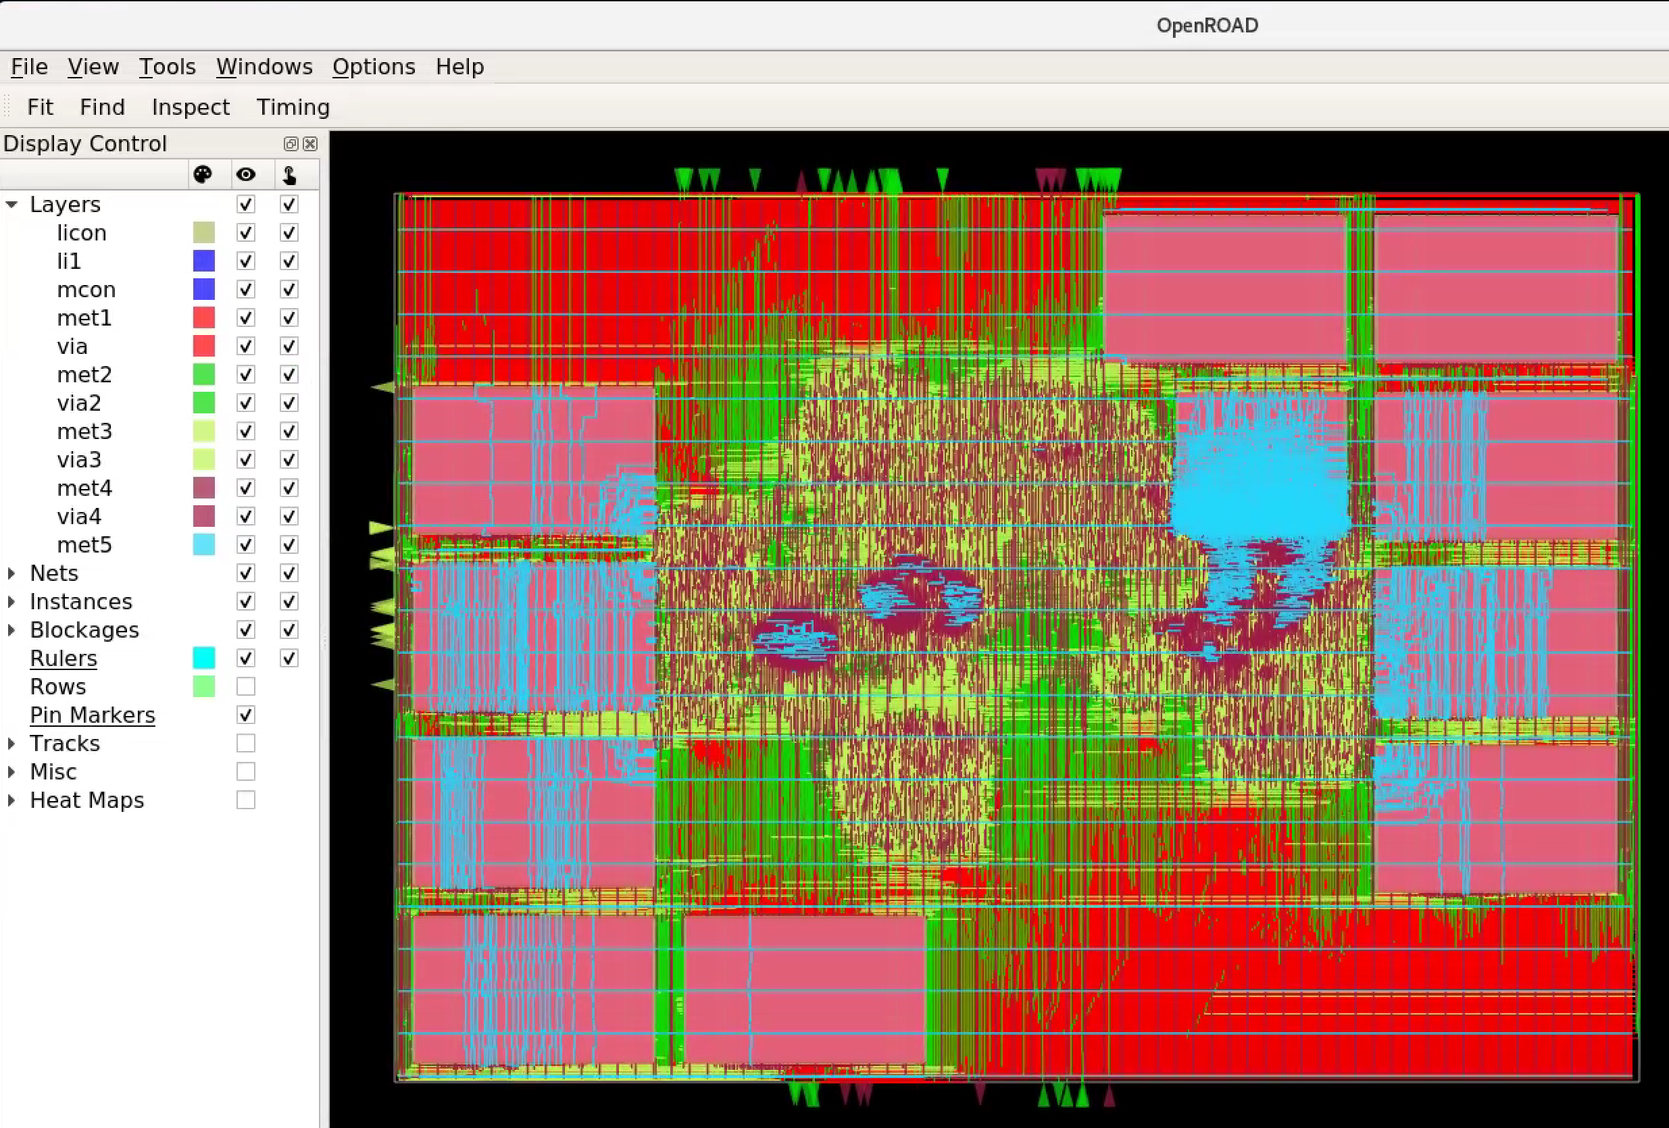
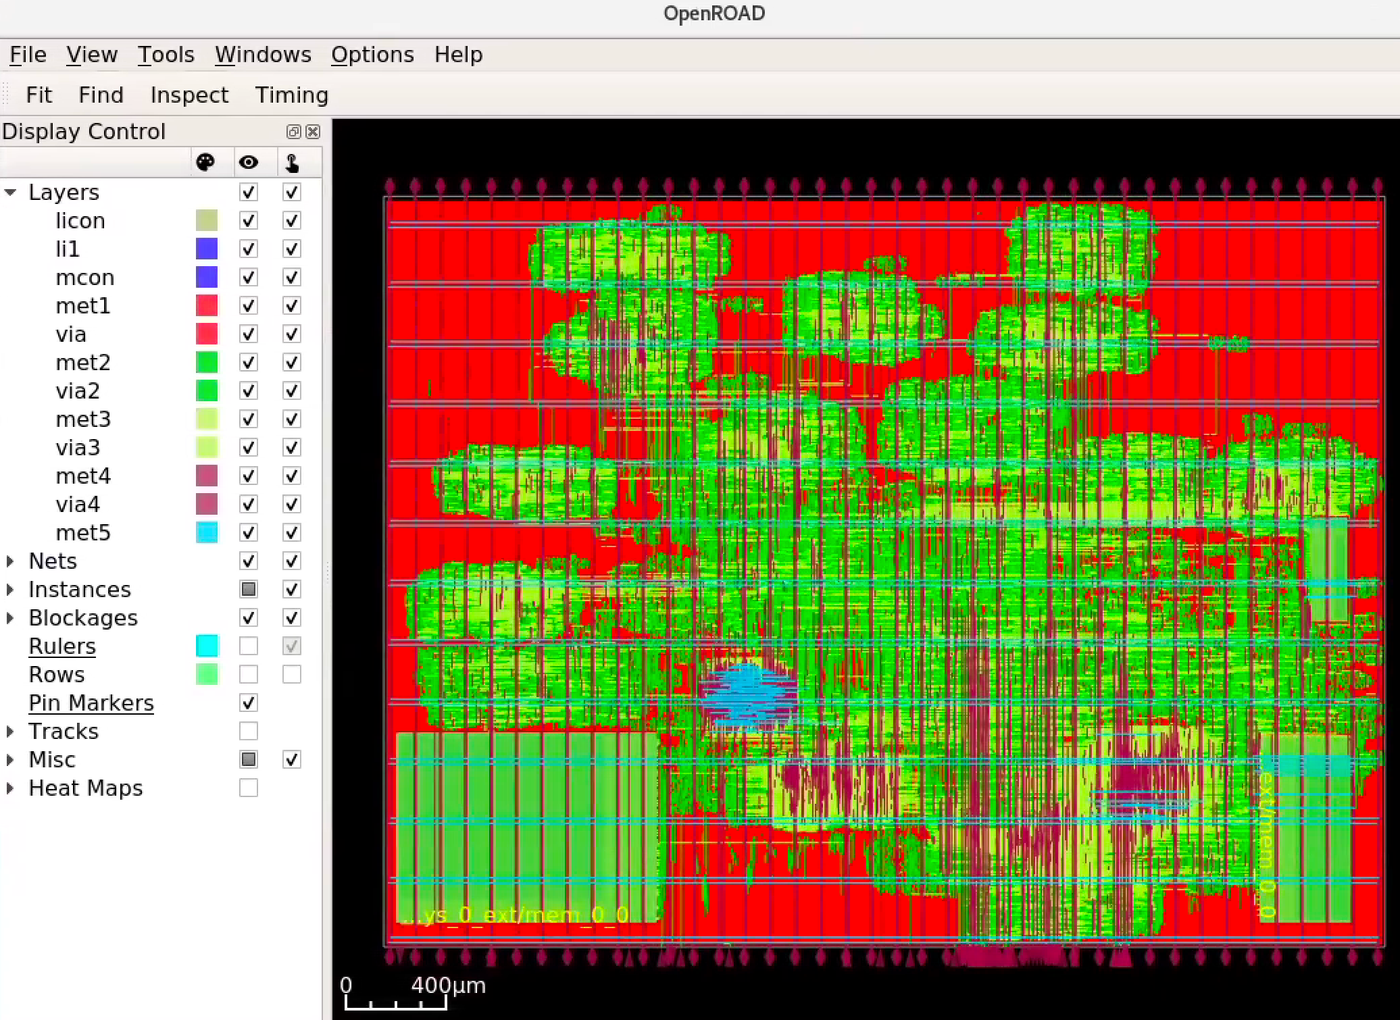
updated skywater tutorials

diff --git a/docs/VLSI/Sky130-OpenROAD-Tutorial.rst b/docs/VLSI/Sky130-OpenROAD-Tutorial.rst
@@ -20,7 +20,7 @@ This example gives a suggested file structure and build system. The ``vlsi/`` fo
 
 * ``env.yml``
 
-  * A template file for tool environment configuration. Fill in the install and license server paths for your environment. For SLICE and BWRC affiliates, example environment configs are found `here <https://github.com/ucb-bar/hammer/tree/master/e2e/env>`__.
+  * This file is not used in this tutorial, but is required for the commercial tool flow. A template file for tool environment configuration. Fill in the install and license server paths for your environment. For SLICE and BWRC affiliates, example environment configs are found `here <https://github.com/ucb-bar/hammer/tree/master/e2e/env>`__.
 
 * ``example-vlsi-sky130``
 
@@ -28,7 +28,7 @@ This example gives a suggested file structure and build system. The ``vlsi/`` fo
 
 * ``example-sky130.yml``, ``example-openroad.yml``, ``example-designs/sky130-openroad.yml``
 
-  * Hammer IR for this tutorial. For SLICE and BWRC affiliates, an example ASAP7 config is found `here <https://github.com/ucb-bar/hammer/tree/master/e2e/pdks>`__.
+  * Hammer IR for this tutorial. For SLICE and BWRC affiliates, an example Sky130 config is found `here <https://github.com/ucb-bar/hammer/tree/master/e2e/pdks>`__.
 
 * ``example-design.yml``, ``example-asap7.yml``, ``example-tech.yml``
 
@@ -48,12 +48,36 @@ Prerequisites
 * Python 3.9+
 * OpenROAD flow tools:
 
-  * Yosys (synthesis), install `from source <https://yosyshq.net/yosys/download.html>`__ or `using conda <https://anaconda.org/TimVideos/yosys>`__
-  * OpenROAD (place-and-route), install `from source <https://openroad.readthedocs.io/en/latest/main/README.html#install-dependencies>`__
-  * Magic (DRC), install `from source <http://www.opencircuitdesign.com/magic/install.html>`__
-  * NetGen (LVS), install `from source <http://www.opencircuitdesign.com/netgen/install.html>`__ or `using conda <https://anaconda.org/conda-forge/netgen>`__
+  * Yosys (synthesis), install `using conda <https://anaconda.org/litex-hub/yosys>`__ or `from source <https://yosyshq.net/yosys/download.html>`__
+  * OpenROAD (place-and-route), install `using conda <https://anaconda.org/litex-hub/openroad>`__ (note that GUI is disabled in conda package) or `from source <https://openroad.readthedocs.io/en/latest/main/README.html#install-dependencies>`__
+  * KLayout (DEF to GDSII conversion), install `using conda <https://anaconda.org/litex-hub/klayout>`__ or `from source <https://www.klayout.de/build.html>`__
+  * Magic (DRC), , install `using conda <https://anaconda.org/litex-hub/magic>`__ or `from source <http://www.opencircuitdesign.com/magic/install.html>`__
+  * NetGen (LVS), , install `using conda <https://anaconda.org/litex-hub/netgen>`__ or `from source <http://www.opencircuitdesign.com/netgen/install.html>`__
 
-* Sky130 PDK, install using `these directions  <https://github.com/ucb-bar/hammer/blob/master/hammer/technology/sky130>`__
+* Sky130A PDK, install `using conda <https://anaconda.org/litex-hub/open_pdks.sky130a>`__ or `these directions  <https://github.com/ucb-bar/hammer/blob/master/hammer/technology/sky130>`__
+* `Sram22 Sky130 SRAM macros  <https://github.com/rahulk29/sram22_sky130_macros>`__ 
+
+  * These SRAM macros were generated using the `Sram22 SRAM generator  <https://github.com/rahulk29/sram22>`__ (still very heavily under development)
+
+Prerequisite Setup with Conda
+^^^^^^^^^^^^^^^^^^^^^^^^^^^^^
+As of recently, most of the prerequisites of this tutorial may now be installed as conda packages.
+The setup of these tools may eventually be scripted, but for now here are the directions to set them up:
+
+.. code-block:: shell
+
+    # create conda environment named "osflow"
+    conda create -n osflow
+    # download all files for Sky130A PDK
+    conda install -n osflow -c litex-hub open_pdks.sky130a
+    # install all VLSI tools
+    conda install -n osflow -c litex-hub yosys
+    conda install -n osflow -c litex-hub openroad
+    conda install -n osflow -c litex-hub klayout
+    conda install -n osflow -c litex-hub magic
+    conda install -n osflow -c litex-hub netgen
+    # clone the SRAM22 Sky130 SRAM macros to a convenient location
+    git clone https://github.com/rahulk29/sram22_sky130_macros
 
 Initial Setup
 -------------
@@ -66,31 +90,13 @@ In the Chipyard root, ensure that you have the Chipyard conda environment activa
 to pull and install the plugin submodules. Note that for technologies other than ``sky130`` or ``asap7``, the tech submodule is cloned in the ``vlsi`` folder, 
 and for the commercial tool flow (set up by omitting the ``openroad`` argument), the tool plugin submodules are cloned into the ``vlsi`` folder.
 
-Building the Design
---------------------
-To elaborate the ``TinyRocketConfig`` and set up all prerequisites for the build system to push the design and SRAM macros through the flow:
+Now navigate to the ``vlsi`` directory. The remainder of the tutorial will assume you are in this directory. 
+We will summarize a few files in this directory that will be important for the rest of the tutorial.
 
 .. code-block:: shell
 
-    make buildfile tutorial=sky130-openroad
+    cd ~chipyard/vlsi
 
-The command ``make buildfile`` generates a set of Make targets in ``build/hammer.d``.
-It needs to be re-run if environment variables are changed.
-It is recommended that you edit these variables directly in the Makefile rather than exporting them to your shell environment.
-
-For the purpose of brevity, in this tutorial we will set the Make variable ``tutorial=sky130-openroad``,
-which will cause additional variables to be set in ``tutorial.mk``, a few of which are summarized as follows:
-
-* ``CONFIG=TinyRocketConfig`` selects the target generator config in the same manner as the rest of the Chipyard framework. This elaborates a stripped-down Rocket Chip in the interest of minimizing tool runtime.
-* ``tech_name=sky130`` sets a few more necessary paths in the ``Makefile``, such as the appropriate Hammer plugin
-* ``TOOLS_CONF`` and ``TECH_CONF`` select the approproate YAML configuration files, ``example-openroad.yml`` and ``example-sky130.yml``, which are described below
-* ``DESIGN_CONF`` and ``EXTRA_CONFS`` allow for additonal design-specific overrides of the Hammer IR in ``example-sky130.yml``
-* ``VLSI_OBJ_DIR=build-sky130-openroad`` gives the build directory a unique name to allow running multiple flows in the same repo. Note that for the rest of the tutorial we will still refer to this directory in file paths as ``build``, again for brevity.
-* ``VLSI_TOP`` is by default ``ChipTop``, which is the name of the top-level Verilog module generated in the Chipyard SoC configs. By instead setting ``VLSI_TOP=Rocket``, we can use the Rocket core as the top-level module for the VLSI flow, which consists only of a single RISC-V core (and no caches, peripherals, buses, etc). This is useful to run through this tutorial quickly, and does not rely on any SRAMs.
-* ``ENABLE_CUSTOM_FIRRTL_PASS = 1`` is required for synthesis through Yosys. This reverts to the Scala FIRRTL Compiler so that unsupported multidimensional arrays are not generated in the Verilog.
-
-Running the VLSI Flow
----------------------
 
 example-vlsi-sky130
 ^^^^^^^^^^^^^^^^^^^
@@ -101,15 +107,60 @@ example-sky130.yml
 ^^^^^^^^^^^^^^^^^^
 This contains the Hammer configuration for this example project. Example clock constraints, power straps definitions, placement constraints, and pin constraints are given. Additional configuration for the extra libraries and tools are at the bottom.
 
-First, set ``technology.sky130.<sky130A, openram_lib>`` to the absolute path of the respective directories containing the Sky130 PDK and SRAM files. See the
-`Sky130 Hammer plugin README <https://github.com/ucb-bar/hammer/blob/master/hammer/technology/sky130>`__
-for details about the PDK setup.
+Add the following YAML keys to the top of this file to specify the location of the Sky130A PDK and SRAM macros.
 
+.. code-block:: yaml
+
+    # all ~ should be replaced with absolute paths to these directories
+    # technology paths
+    technology.sky130.sky130A: ~conda/envs/osflow/share/pdk/sky130A
+    technology.sky130.sram22_sky130_macros: ~sram22_sky130_macros
 
 example-openroad.yml
 ^^^^^^^^^^^^^^^^^^^^
 This contains the Hammer configuration for the OpenROAD tool flow.
 It selects tools for synthesis (Yosys), place and route (OpenROAD), DRC (Magic), and LVS (NetGen).
+
+Add the following YAML keys to the top of this file to specify the locations of the tool binaries.
+Note that this is not required if the tools are already on your PATH.
+
+.. code-block:: yaml
+
+    # all ~ should be replaced with absolute paths to these directories
+    # tool binary paths
+    synthesis.yosys.yosys_bin: ~conda/envs/osflow/bin/yosys
+    par.openroad.openroad_bin: ~conda/envs/osflow/bin/openroad
+    par.openroad.klayout_bin: ~conda/envs/osflow/bin/klayout
+    drc.magic.magic_bin: ~conda/envs/osflow/bin/magic
+    lvs.netgen.netgen_bin: ~conda/envs/osflow/bin/netgen
+
+
+Building the Design
+--------------------
+
+To elaborate the ``TinyRocketConfig`` and set up all prerequisites for the build system to push the design and SRAM macros through the flow:
+
+.. code-block:: shell
+
+    make buildfile tutorial=sky130-openroad
+
+The command ``make buildfile`` generates a set of Make targets in ``build/hammer.d``.
+It needs to be re-run if environment variables are changed.
+It is recommended that you edit these variables directly in the Makefile rather than exporting them to your shell environment.
+
+For the sake of brevity, in this tutorial we will set the Make variable ``tutorial=sky130-openroad``,
+which will cause additional variables to be set in ``tutorial.mk``, a few of which are summarized as follows:
+
+* ``CONFIG=TinyRocketConfig`` selects the target generator config in the same manner as the rest of the Chipyard framework. This elaborates a stripped-down Rocket Chip in the interest of minimizing tool runtime.
+* ``tech_name=sky130`` sets a few more necessary paths in the ``Makefile``, such as the appropriate Hammer plugin
+* ``TOOLS_CONF`` and ``TECH_CONF`` select the approproate YAML configuration files, ``example-openroad.yml`` and ``example-sky130.yml``, which are described above
+* ``DESIGN_CONF`` and ``EXTRA_CONFS`` allow for additonal design-specific overrides of the Hammer IR in ``example-sky130.yml``
+* ``VLSI_OBJ_DIR=build-sky130-openroad`` gives the build directory a unique name to allow running multiple flows in the same repo. Note that for the rest of the tutorial we will still refer to this directory in file paths as ``build``, again for brevity.
+* ``VLSI_TOP`` is by default ``ChipTop``, which is the name of the top-level Verilog module generated in the Chipyard SoC configs. By instead setting ``VLSI_TOP=Rocket``, we can use the Rocket core as the top-level module for the VLSI flow, which consists only of a single RISC-V core (and no caches, peripherals, buses, etc). This is useful to run through this tutorial quickly, and does not rely on any SRAMs.
+* ``ENABLE_YOSYS_FLOW = 1`` is required for synthesis through Yosys. This reverts to the Scala FIRRTL Compiler so that unsupported multidimensional arrays are not generated in the Verilog.
+
+Running the VLSI Flow
+---------------------
 
 Synthesis
 ^^^^^^^^^
@@ -129,37 +180,73 @@ Place-and-Route
     make par tutorial=sky130-openroad
 
 After completion, the final database can be opened in an interactive OpenROAD session.
+Hammer generates a convenient script to launch these sessions
 
 .. code-block:: shell
 
     cd ./build/par-rundir
     ./generated-scripts/open_chip
 
+Note that the conda OpenROAD package was compiled with the GUI disabled, so in order to view the layout,
+you will need to install OpenROAD from source.
 
 Below is the post-PnR layout for the TinyRocketConfig in Sky130 generated by OpenROAD.
 
 .. image:: ../_static/images/vlsi-openroad-par-tinyrocketconfig.png
 
-Intermediate databases are written in ``build/par-rundir`` between each step of the ``par`` action. These databases can be restored in an interactive OpenROAD session as desired for debugging purposes.
+Intermediate databases are written in ``build/par-rundir`` between each step of the ``par`` action,
+These databases can be restored using the same ``open_chip`` script for debugging purposes.
 
 .. code-block:: shell
 
-    openroad  # launch OpenROAD tool
-    openroad> read_db pre_global_route
+    cd build/par-rundir
+    ./generated_scripts/open_chip -h
+    "
+        Usage: ./generated-scripts/open_chip [-t] [openroad_db_name]
+
+        Options
+          openroad_db_name    : Name of database to load (default=latest)
+          -t, --timing        : Load timing info (default=disabled because of slow load time)
+          -h, --help          : Display this message
+    "
+    # load pre-global route database without timing information
+    ./generated_scripts/open_chip pre_global_route
+
+    # load post-clock tree database with timing inforamtion
+    ./generated_scripts/open_chip -t post_clock_tree
 
 .. Timing reports are found in ``build/par-rundir/timingReports``. They are gzipped text files.
 
+See the `OpenROAD tool plugin <https://github.com/ucb-bar/hammer/blob/master/hammer/par/openroad>`__ for the full list of OpenROAD tool steps and their implementations.
+
 DRC & LVS
 ^^^^^^^^^
-To run DRC & LVS:
+
+As a note, this tutorial has been run extensively through commercial signoff tools,
+thus the open-source signoff flow is not stable or guaranteed to produce useful results.
+We welcome any contributions to improving both our `Magic tool plugin <https://github.com/ucb-bar/hammer/blob/master/hammer/drc/magic>`__
+and `Netgen tool plugin <https://github.com/ucb-bar/hammer/blob/master/hammer/lvs/netgen>`__.
+
+To run DRC & LVS in Magic & Netgen, respectively:
 
 .. code-block:: shell
 
     make drc tutorial=sky130-openroad
+    ./build/drc-rundir/generated-scripts/view_drc
     make lvs tutorial=sky130-openroad
+    ./build/lvs-rundir/generated-scripts/view_lvs
 
-Some DRC errors are expected from this PDK, especially with regards to the SRAMs, as explained in the
-`Sky130 Hammer plugin README  <https://github.com/ucb-bar/hammer/blob/master/hammer/technology/sky130>`__.
+Note that in ``sky130-openroad.yml`` we have set the following YAML keys:
+
+.. code-block:: yaml
+
+    drc.magic.generate_only: true
+    lvs.netgen.generate_only: true
+
+These keys cause the Hammer plugin to only generate all necessary scripts, without executing them with the respective tool.
+This is because Magic and Netgen, as of the writing of this tutorial, do not have a database format that may be loaded interactively,
+so to view the DRC/LVS results for debugging you must launch the tool interactively, then run DRC/LVS checks,
+which is done by the ``generated-scripts/view_[drc|lvs]`` scripts.
 
 
 VLSI Flow Control
@@ -174,9 +261,9 @@ Firt, refer to the :ref:`VLSI/Hammer:VLSI Flow Control` documentation. The below
       make redo-par HAMMER_EXTRA_ARGS="--start_before_step write_design"
 
       # example of re-running only floorplanning to test out a new floorplan configuration
-      make redo-par HAMMER_EXTRA_ARGS="--only_step floorplan_design -p example-sky130.yml"
-
-See the `OpenROAD tool plugin <https://github.com/ucb-bar/hammer/blob/master/hammer/par/openroad>`__ for the full list of OpenROAD tool steps and their implementations.
+      #   the "-p file.yml" causes file.yml to override any previous yaml/json configurations
+      make redo-par \
+        HAMMER_EXTRA_ARGS="--only_step floorplan_design -p example-designs/sky130-openroad.yml"
 
 Documentation
 -------------

diff --git a/docs/VLSI/Sky130-Commercial-Tutorial.rst b/docs/VLSI/Sky130-Commercial-Tutorial.rst
@@ -47,7 +47,25 @@ Prerequisites
 
 * Python 3.9+
 * Genus, Innovus, Voltus, VCS, and Calibre licenses
-* Sky130 PDK, install using `these directions  <https://github.com/ucb-bar/hammer/blob/master/hammer/technology/sky130>`__
+* Sky130A PDK, install `using conda <https://anaconda.org/litex-hub/open_pdks.sky130a>`__ or `these directions  <https://github.com/ucb-bar/hammer/blob/master/hammer/technology/sky130>`__
+* `Sram22 Sky130 SRAM macros  <https://github.com/rahulk29/sram22_sky130_macros>`__ 
+
+  * These SRAM macros were generated using the `Sram22 SRAM generator  <https://github.com/rahulk29/sram22>`__ (still very heavily under development)
+
+Prerequisite Setup with Conda
+^^^^^^^^^^^^^^^^^^^^^^^^^^^^^
+As of recently, most of the prerequisites of this tutorial may now be installed as conda packages.
+The setup of these tools may eventually be scripted, but for now here are the directions to set them up:
+
+.. code-block:: shell
+
+    # create conda environment named "osflow"
+    conda create -n osflow
+    # download all files for Sky130A PDK
+    conda install -n osflow -c litex-hub open_pdks.sky130a
+    # clone the SRAM22 Sky130 SRAM macros to a convenient location
+    git clone https://github.com/rahulk29/sram22_sky130_macros
+
 
 Initial Setup
 -------------
@@ -58,6 +76,38 @@ In the Chipyard root, ensure that you have the Chipyard conda environment activa
     ./scripts/init-vlsi.sh sky130
 
 to pull and install the plugin submodules. Note that for technologies other than ``sky130`` or ``asap7``, the tech submodule must be added in the ``vlsi`` folder first.
+
+Now navigate to the ``vlsi`` directory. The remainder of the tutorial will assume you are in this directory. 
+We will summarize a few files in this directory that will be important for the rest of the tutorial.
+
+.. code-block:: shell
+
+    cd ~chipyard/vlsi
+
+example-vlsi-sky130
+^^^^^^^^^^^^^^^^^^^
+This is the entry script with placeholders for hooks. In the ``ExampleDriver`` class, a list of hooks is passed in the ``get_extra_par_hooks``. Hooks are additional snippets of python and TCL (via ``x.append()``) to extend the Hammer APIs. Hooks can be inserted using the ``make_pre/post/replacement_hook`` methods as shown in this example. Refer to the Hammer documentation on hooks for a detailed description of how these are injected into the VLSI flow.
+
+
+example-sky130.yml
+^^^^^^^^^^^^^^^^^^
+This contains the Hammer configuration for this example project. Example clock constraints, power straps definitions, placement constraints, and pin constraints are given. Additional configuration for the extra libraries and tools are at the bottom.
+
+Add the following YAML keys to the top of this file to specify the location of the Sky130A PDK and SRAM macros.
+
+.. code-block:: yaml
+
+    # all ~ should be replaced with absolute paths to these directories
+    # technology paths
+    technology.sky130.sky130A: ~conda/envs/osflow/share/pdk/sky130A
+    technology.sky130.sram22_sky130_macros: ~sram22_sky130_macros
+
+
+example-tools.yml
+^^^^^^^^^^^^^^^^^
+This contains the Hammer configuration for a commercial tool flow.
+It selects tools for synthesis (Cadence Genus), place and route (Cadence Innovus), DRC and LVS (Mentor Calibre).
+
 
 Building the Design
 --------------------
@@ -76,31 +126,13 @@ which will cause additional variables to be set in ``tutorial.mk``, a few of whi
 
 * ``CONFIG=TinyRocketConfig`` selects the target generator config in the same manner as the rest of the Chipyard framework. This elaborates a stripped-down Rocket Chip in the interest of minimizing tool runtime.
 * ``tech_name=sky130`` sets a few more necessary paths in the ``Makefile``, such as the appropriate Hammer plugin
-* ``TOOLS_CONF`` and ``TECH_CONF`` select the approproate YAML configuration files, ``example-tools.yml`` and ``example-sky130.yml``, which are described below
+* ``TOOLS_CONF`` and ``TECH_CONF`` select the approproate YAML configuration files, ``example-tools.yml`` and ``example-sky130.yml``, which are described above
 * ``DESIGN_CONF`` and ``EXTRA_CONFS`` allow for additonal design-specific overrides of the Hammer IR in ``example-sky130.yml``
 * ``VLSI_OBJ_DIR=build-sky130-commercial`` gives the build directory a unique name to allow running multiple flows in the same repo. Note that for the rest of the tutorial we will still refer to this directory in file paths as ``build``, again for brevity.
 * ``VLSI_TOP`` is by default ``ChipTop``, which is the name of the top-level Verilog module generated in the Chipyard SoC configs. By instead setting ``VLSI_TOP=Rocket``, we can use the Rocket core as the top-level module for the VLSI flow, which consists only of a single RISC-V core (and no caches, peripherals, buses, etc). This is useful to run through this tutorial quickly, and does not rely on any SRAMs.
 
 Running the VLSI Flow
 ---------------------
-
-example-vlsi-sky130
-^^^^^^^^^^^^^^^^^^^
-This is the entry script with placeholders for hooks. In the ``ExampleDriver`` class, a list of hooks is passed in the ``get_extra_par_hooks``. Hooks are additional snippets of python and TCL (via ``x.append()``) to extend the Hammer APIs. Hooks can be inserted using the ``make_pre/post/replacement_hook`` methods as shown in this example. Refer to the Hammer documentation on hooks for a detailed description of how these are injected into the VLSI flow.
-
-
-example-sky130.yml
-^^^^^^^^^^^^^^^^^^
-This contains the Hammer configuration for this example project. Example clock constraints, power straps definitions, placement constraints, and pin constraints are given. Additional configuration for the extra libraries and tools are at the bottom.
-
-First, set ``technology.sky130.sky130A/sky130_nda/openram_lib`` to the absolute path of the respective directories containing the Sky130 PDK and SRAM files. See the
-`Sky130 Hammer plugin README <https://github.com/ucb-bar/hammer/blob/master/hammer/technology/sky130>`__
-for details about the PDK setup.
-
-example-tools.yml
-^^^^^^^^^^^^^^^^^
-This contains the Hammer configuration for a commercial tool flow.
-It selects tools for synthesis (Cadence Genus), place and route (Cadence Innovus), DRC and LVS (Mentor Calibre).
 
 Synthesis
 ^^^^^^^^^
@@ -129,9 +161,9 @@ To run DRC & LVS, and view the results in Calibre:
 .. code-block:: shell
 
     make drc tutorial=sky130-commercial
-    ./build/chipyard.TestHarness.TinyRocketConfig-ChipTop/drc-rundir/generated-scripts/view_drc
+    ./build/drc-rundir/generated-scripts/view_drc
     make lvs tutorial=sky130-commercial
-    ./build/chipyard.TestHarness.TinyRocketConfig-ChipTop/lvs-rundir/generated-scripts/view_lvs
+    ./build/lvs-rundir/generated-scripts/view_lvs
 
 Some DRC errors are expected from this PDK, especially with regards to the SRAMs, as explained in the
 `Sky130 Hammer plugin README  <https://github.com/ucb-bar/hammer/blob/master/hammer/technology/sky130>`__.
@@ -160,3 +192,20 @@ Post-P&R power and rail (IR drop) analysis is supported with Voltus:
 If you append the ``BINARY`` variable to the command, it will use the activity file generated from a ``sim-<syn/par>-debug`` run and report dynamic power & IR drop from the toggles encoded in the waveform.
 
 To bypass gate-level simulation, you will need to run the power tool manually (see the generated commands in the generated ``hammer.d`` buildfile). Static and active (vectorless) power & IR drop will be reported.
+
+
+VLSI Flow Control
+^^^^^^^^^^^^^^^^^
+Firt, refer to the :ref:`VLSI/Hammer:VLSI Flow Control` documentation. The below examples use the ``redo-par`` Make target to re-run only place-and-route. ``redo-`` may be prepended to any of the VLSI flow actions to re-run only that action.
+
+.. code-block:: shell
+
+      # the following two statements are equivalent because the
+      #   extraction step immediately precedes the write_design step
+      make redo-par HAMMER_EXTRA_ARGS="--start_after_step extraction"
+      make redo-par HAMMER_EXTRA_ARGS="--start_before_step write_design"
+
+      # example of re-running only floorplanning to test out a new floorplan configuration
+      #   the "-p file.yml" causes file.yml to override any previous yaml/json configurations
+      make redo-par \
+        HAMMER_EXTRA_ARGS="--only_step floorplan_design -p example-designs/sky130-openroad.yml"
